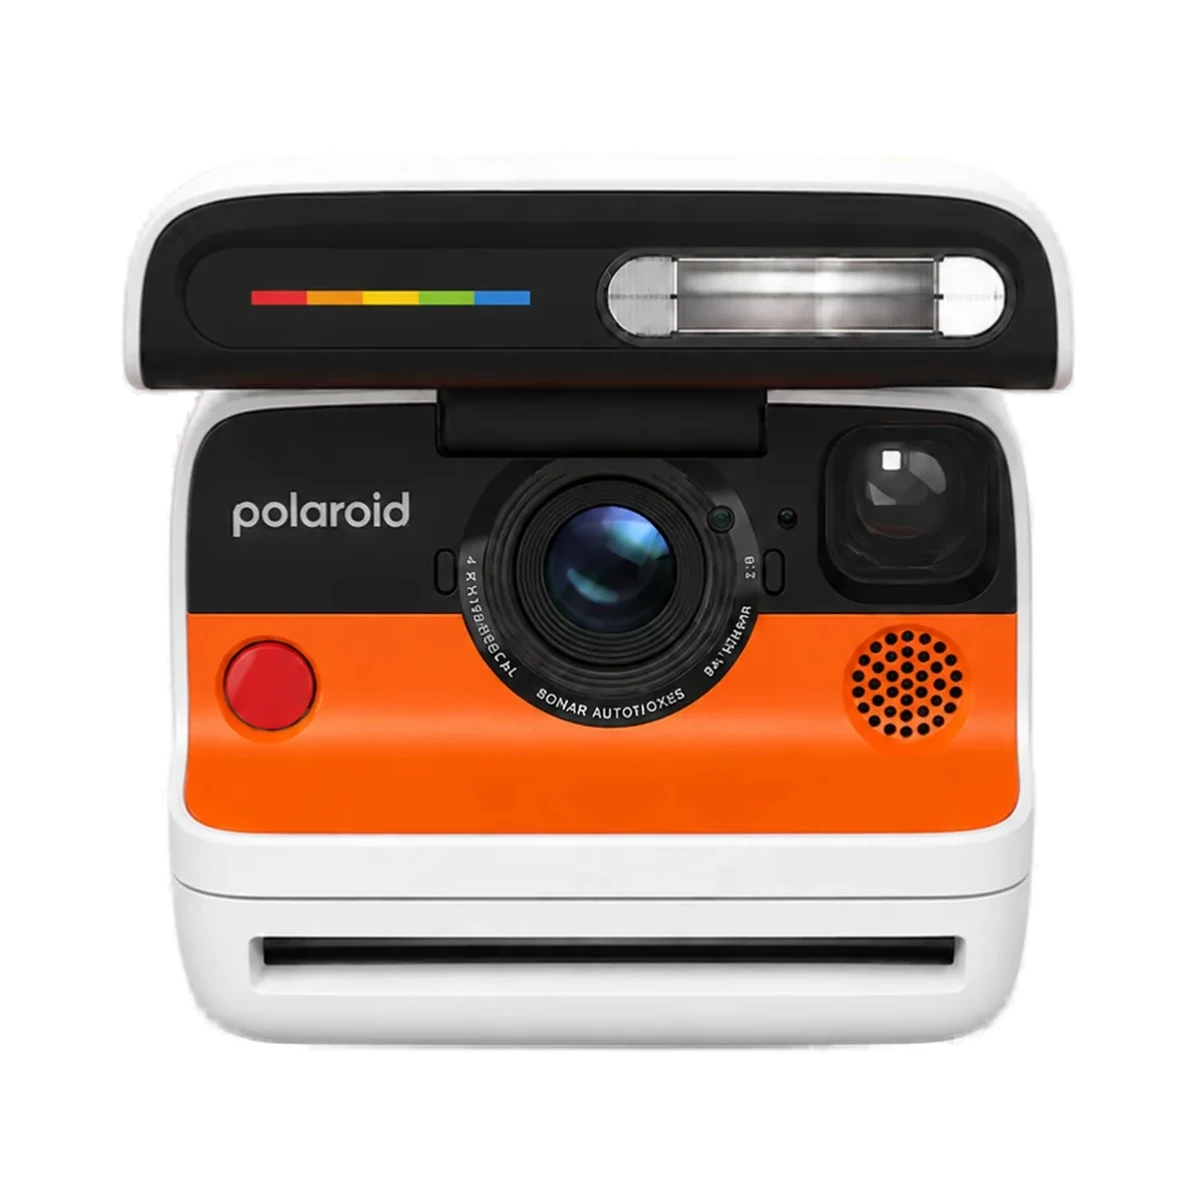
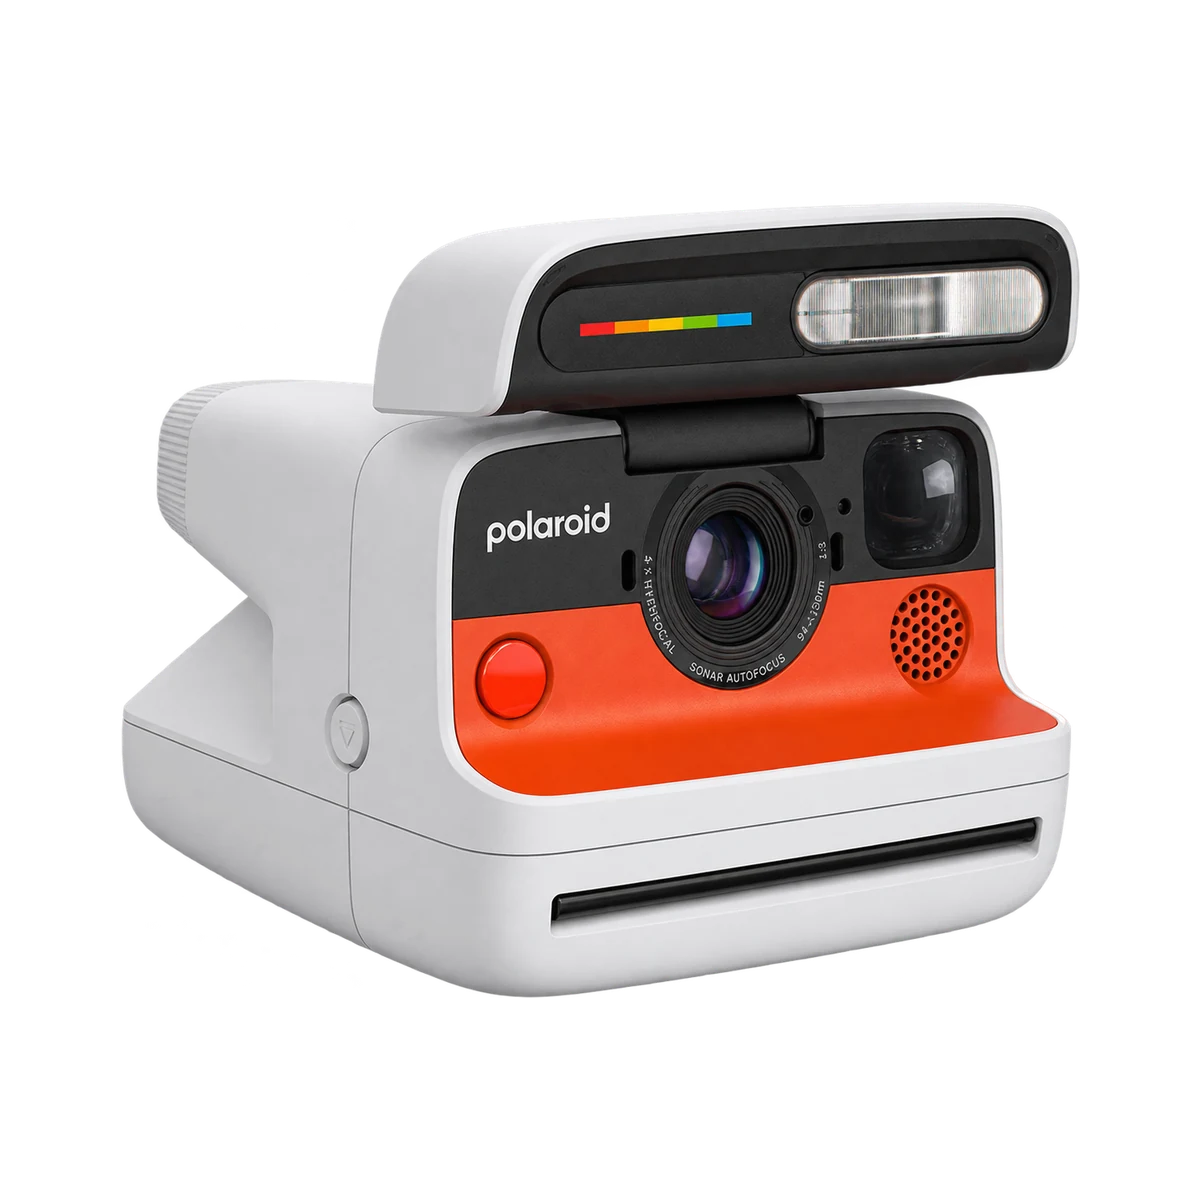
refactor(cameras): 모델 카드를 비스듬한 각도 사진 한 장으로, 호버 전환 제거
- 호버 때 보이던 두 번째 사진을 기본 카드 사진으로 교체 (card-*-hover.webp → card-*.webp)
- 카드 호버 전환·번호 전환·키보드 포커스 제거, 번호는 01 / 02 고정

Claude-Session: https://claude.ai/code/session_01UPECZHxpqrGjd4zAky8333

diff --git a/src/pages/Cameras/data/camerasMainContent.js b/src/pages/Cameras/data/camerasMainContent.js
@@ -30,13 +30,6 @@ import cardFlip from '@/assets/cameras/main/card-flip.webp';
 import cardMod from '@/assets/cameras/main/card-mod.webp';
 import cardI2 from '@/assets/cameras/main/card-i2.webp';
 import cardGo from '@/assets/cameras/main/card-go.webp';
-// 카드에 마우스를 올리면 바뀌는 두 번째 사진 (01 / 02 → 02 / 02)
-import cardNowHover from '@/assets/cameras/main/card-now-hover.webp';
-import cardNowPlusHover from '@/assets/cameras/main/card-now-plus-hover.webp';
-import cardFlipHover from '@/assets/cameras/main/card-flip-hover.webp';
-import cardModHover from '@/assets/cameras/main/card-mod-hover.webp';
-import cardI2Hover from '@/assets/cameras/main/card-i2-hover.webp';
-import cardGoHover from '@/assets/cameras/main/card-go-hover.webp';
 import helpCamera from '@/assets/cameras/main/help-camera-split.webp';
 import scriptFindCamera from '@/assets/cameras/main/script-find-camera.webp';
 import scriptFindAnswers from '@/assets/cameras/main/script-find-answers.webp';
@@ -113,7 +106,7 @@ export const MOMENTS = {
  * 4~9. 모델별 섹션
  * side: 글이 놓이는 쪽(left: 왼쪽 정렬 / right: 오른쪽 정렬), edge: 글 기준선(left 면 왼쪽 x, right 면 오른쪽 x), top: 헤드라인 첫 줄 y
  * script: 손글씨 모델명 이미지 (글과 같은 쪽, 헤드라인 위)
- * card: 반대쪽 626×626 제품 카드(배경 없는 투명 사진). hover: 마우스를 올리면 바뀌는 두 번째 사진, index: 카드 번호
+ * card: 반대쪽 626×626 제품 카드(배경 없는 투명 사진, 비스듬한 각도). index: 카드 번호
  *       bg: 카드 배경색(사진 배경과 같은 색 — 마우스를 올려 사진이 커질 때 테두리에 깔린다)
  * camera: 배경 없는 제품 이미지 — 위쪽 카메라 라인업에서 쓴다
  * to: 사이트 안 상세페이지 / href: 상세페이지가 없으면 polaroid.com 제품 페이지(새 창)
@@ -130,7 +123,7 @@ export const MODELS = [
     top: 448,
     script: { src: scriptNow, box: [317, 231, 446, 240] },
     camera: { src: cameraNow, alt: 'Polaroid Now 즉석카메라, 화이트와 퍼플 바디', box: [1206, 320, 348, 393] },
-    card: { src: cardNow, alt: '퍼플 바디의 Polaroid Now 즉석카메라', hover: { src: cardNowHover, alt: '퍼플 바디의 Polaroid Now 즉석카메라, 비스듬한 각도' }, box: [1040, 235, 626, 626], index: 1 },
+    card: { src: cardNow, alt: '퍼플 바디의 Polaroid Now 즉석카메라, 비스듬한 각도', box: [1040, 235, 626, 626], index: 1 },
     to: ROUTES.camerasNow,
   },
   {
@@ -143,7 +136,7 @@ export const MODELS = [
     top: 520,
     script: { src: scriptNowPlus, box: [1220, 290, 474, 245] },
     camera: { src: cameraNowPlus, alt: 'Polaroid Now+ 즉석카메라, 화이트 바디', box: [377, 325, 366, 414] },
-    card: { src: cardNowPlus, alt: '세이지 그린 바디의 Polaroid Now+ 즉석카메라', hover: { src: cardNowPlusHover, alt: '세이지 그린 바디의 Polaroid Now+ 즉석카메라, 비스듬한 각도' }, box: [261, 235, 626, 626], index: 2 },
+    card: { src: cardNowPlus, alt: '세이지 그린 바디의 Polaroid Now+ 즉석카메라, 비스듬한 각도', box: [261, 235, 626, 626], index: 2 },
     to: ROUTES.camerasNowPlus,
   },
   {
@@ -160,7 +153,7 @@ export const MODELS = [
     top: 516,
     script: { src: scriptFlip, box: [283, 281, 461, 260] },
     camera: { src: cameraFlip, alt: 'Polaroid Flip 즉석카메라, 화이트 바디에 오렌지 패널', box: [1107, 315, 448, 426] },
-    card: { src: cardFlip, alt: '블랙·오렌지 패널의 Polaroid Flip 즉석카메라', hover: { src: cardFlipHover, alt: 'Polaroid Flip 즉석카메라, 비스듬한 각도' }, box: [1047, 251, 626, 626], index: 3 },
+    card: { src: cardFlip, alt: 'Polaroid Flip 즉석카메라, 비스듬한 각도', box: [1047, 251, 626, 626], index: 3 },
     href: `${POLAROID_US}/cameras/flip-camera`,
   },
   {
@@ -177,7 +170,7 @@ export const MODELS = [
     top: 523,
     script: { src: scriptMod, box: [1220, 286, 499, 304] },
     camera: { src: cameraMod, alt: 'Polaroid Mod 즉석카메라, 그래파이트 바디', box: [352, 307, 396, 449] },
-    card: { src: cardMod, alt: '그래파이트 바디의 Polaroid Mod 즉석카메라', hover: { src: cardModHover, alt: '그래파이트 바디의 Polaroid Mod 즉석카메라, 비스듬한 각도' }, box: [262, 235, 626, 626], index: 4 },
+    card: { src: cardMod, alt: '그래파이트 바디의 Polaroid Mod 즉석카메라, 비스듬한 각도', box: [262, 235, 626, 626], index: 4 },
     href: `${POLAROID_US}/cameras/mod-camera`,
   },
   {
@@ -195,7 +188,7 @@ export const MODELS = [
     top: 436,
     script: { src: scriptI2, box: [293, 245, 394, 239] },
     camera: { src: cameraI2, alt: 'Polaroid I-2 즉석카메라, 블랙 바디', box: [1151, 355, 468, 377] },
-    card: { src: cardI2, alt: '블랙 바디의 Polaroid I-2 즉석카메라', hover: { src: cardI2Hover, alt: '블랙 바디의 Polaroid I-2 즉석카메라, 비스듬한 각도' }, box: [1014, 235, 626, 626], index: 5 },
+    card: { src: cardI2, alt: '블랙 바디의 Polaroid I-2 즉석카메라, 비스듬한 각도', box: [1014, 235, 626, 626], index: 5 },
     href: `${POLAROID_US}/cameras/i2-camera`,
   },
   {
@@ -213,7 +206,7 @@ export const MODELS = [
     height: 1080,
     script: { src: scriptGo, box: [1316, 271, 346, 292] },
     camera: { src: cameraGo, alt: 'Polaroid Go 즉석카메라, 라이트 블루 바디', box: [383, 395, 415, 367] },
-    card: { src: cardGo, alt: '라이트 블루 바디의 Polaroid Go 즉석카메라', hover: { src: cardGoHover, alt: '케이스에 담긴 라이트 블루 Polaroid Go 즉석카메라' }, box: [277, 228, 626, 626], index: 6 },
+    card: { src: cardGo, alt: '케이스에 담긴 라이트 블루 Polaroid Go 즉석카메라', box: [277, 228, 626, 626], index: 6 },
     href: `${POLAROID_US}/cameras/go-camera`,
   },
 ];

diff --git a/src/pages/Cameras/main/ModelFeature.jsx b/src/pages/Cameras/main/ModelFeature.jsx
@@ -10,9 +10,6 @@ import styles from './ModelFeature.module.css';
  * - 반대쪽: 626×626 제품 카드(배경 없는 투명 사진) + 'POLAROID CAMERA - 00N' 라벨
  * 글 묶음이 화면에 어느 정도(60%) 보이면 한꺼번에:
  *   손글씨 모델명이 펜으로 쓰듯 그려지고(ScriptDraw), 흐릿하던 헤드라인과 제품 카드가 초점이 맞듯 선명해진다.
- * 제품 카드에 마우스를 올리면(또는 키보드로 카드에 머물면) 두 번째 사진으로 바뀐다 (framer 'Hover Blur Cards' 참고):
- *   지금 사진은 오른쪽으로 살짝 밀리며 흐려지고, 다음 사진은 왼쪽에서 흐린 채 들어와 선명해진다(약 0.35초).
- *   오른쪽 위 번호도 01 / 02 → 02 / 02 로 바뀐다. 떼면 거꾸로 돌아온다.
  */
 const TOTAL = 6;
 const pad = (n, len = 2) => String(n).padStart(len, '0');
@@ -40,26 +37,13 @@ export default function ModelFeature({ model, linkLabel, reducedMotion }) {
       <figure
         className={`${styles.card} ${inView || reducedMotion ? styles.focused : ''}`}
         style={{ '--l': cl, '--t': ct, '--w': cw, '--h': ch }}
-        tabIndex={model.card.hover ? 0 : undefined}
-        aria-label={model.card.hover ? `${model.card.alt} — 다른 각도 사진 보기` : undefined}
       >
         <div className={styles.cardMedia}>
-          <img className={`${styles.cardImage} ${styles.cardFirst}`} src={model.card.src} alt={model.card.alt} loading="lazy" />
-          {model.card.hover && (
-            <img
-              className={`${styles.cardImage} ${styles.cardSecond}`}
-              src={model.card.hover.src}
-              alt={model.card.hover.alt}
-              loading="lazy"
-            />
-          )}
+          <img className={styles.cardImage} src={model.card.src} alt={model.card.alt} loading="lazy" />
         </div>
         <figcaption className={styles.cardLabels} aria-hidden="true">
           <span className={styles.labelTopLeft}>POLAROID CAMERA - {pad(model.card.index, 3)}</span>
-          <span className={styles.labelTopRight}>
-            <span className={styles.countFirst}>01 / 02</span>
-            {model.card.hover && <span className={styles.countSecond}>02 / 02</span>}
-          </span>
+          <span className={styles.labelTopRight}>01 / 02</span>
           <span className={styles.labelBottom}>
             {pad(model.card.index)} / {pad(TOTAL)}
           </span>

diff --git a/src/pages/Cameras/main/ModelFeature.module.css b/src/pages/Cameras/main/ModelFeature.module.css
@@ -20,12 +20,6 @@
 .card {
   margin: 0;
   isolation: isolate;
-  outline: none;
-}
-
-.card:focus-visible {
-  outline: 2px solid #151515;
-  outline-offset: 6px;
 }
 
 /* 처음엔 흐릿하게, 글이 보이기 시작하면(.focused) 선명하게 — 헤드라인과 같은 타이밍 */
@@ -47,12 +41,6 @@
   transform: none;
 }
 
-/*
- * 사진 전환 (framer 'Hover Blur Cards' 영상 분석: 약 0.3초 동안 두 사진이 겹치며
- * 지금 사진은 옆으로 번지듯 흐려지며 사라지고, 다음 사진은 흐린 상태에서 선명해진다)
- *  - 지금 사진: 오른쪽으로 3% 밀리고 가로로 살짝 늘어나며 blur 10px · 투명
- *  - 다음 사진: 왼쪽 3% 에서 흐린 채 시작해 제자리로 오며 선명
- */
 .cardImage {
   position: absolute;
   inset: 0;
@@ -60,66 +48,6 @@
   width: 100%;
   height: 100%;
   object-fit: contain;
-  transition:
-    opacity 0.35s cubic-bezier(0.4, 0, 0.2, 1),
-    filter 0.35s cubic-bezier(0.4, 0, 0.2, 1),
-    transform 0.35s cubic-bezier(0.4, 0, 0.2, 1);
-  will-change: opacity, filter, transform;
-}
-
-.cardSecond {
-  opacity: 0;
-  filter: blur(10px);
-  transform: translateX(-3%) scaleX(1.04);
-}
-
-.card:hover .cardFirst,
-.card:focus-visible .cardFirst {
-  opacity: 0;
-  filter: blur(10px);
-  transform: translateX(3%) scaleX(1.04);
-}
-
-.card:hover .cardSecond,
-.card:focus-visible .cardSecond {
-  opacity: 1;
-  filter: blur(0);
-  transform: none;
-}
-
-/* 오른쪽 위 번호 01 / 02 ↔ 02 / 02 — 아래에서 올라오며 바뀐다 */
-.labelTopRight {
-  /* 위아래로만 잘라 번호가 올라오며 바뀌게 (가로는 '02 / 02' 가 조금 더 넓어도 잘리지 않게) */
-  clip-path: inset(0 -2em);
-}
-
-.countFirst,
-.countSecond {
-  display: block;
-  transition:
-    transform 0.35s cubic-bezier(0.4, 0, 0.2, 1),
-    opacity 0.35s ease;
-}
-
-.countSecond {
-  position: absolute;
-  top: 0;
-  right: 0;
-  white-space: nowrap;
-  opacity: 0;
-  transform: translateY(100%);
-}
-
-.card:hover .countFirst,
-.card:focus-visible .countFirst {
-  opacity: 0;
-  transform: translateY(-100%);
-}
-
-.card:hover .countSecond,
-.card:focus-visible .countSecond {
-  opacity: 1;
-  transform: none;
 }
 
 .cardLabels {
@@ -331,9 +259,7 @@
 
 @media (prefers-reduced-motion: reduce) {
   .cardMedia,
-  .cardImage,
-  .countFirst,
-  .countSecond {
+  .cardImage {
     transition: none;
   }
 
